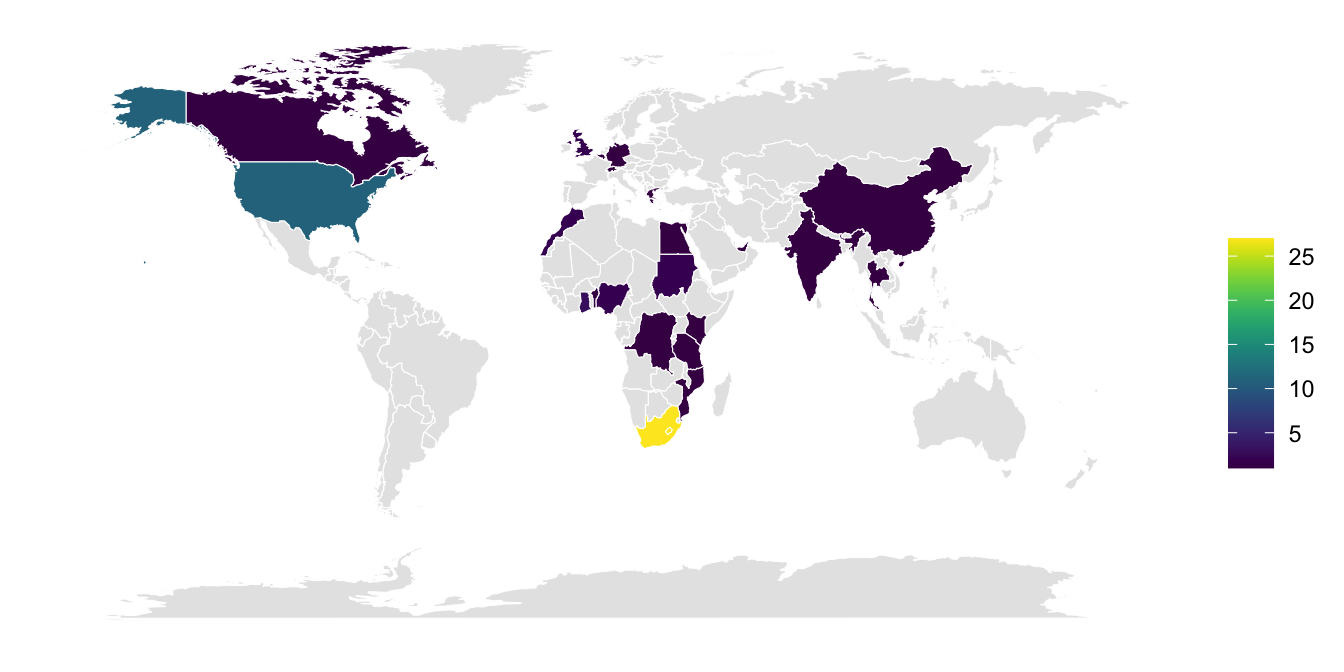
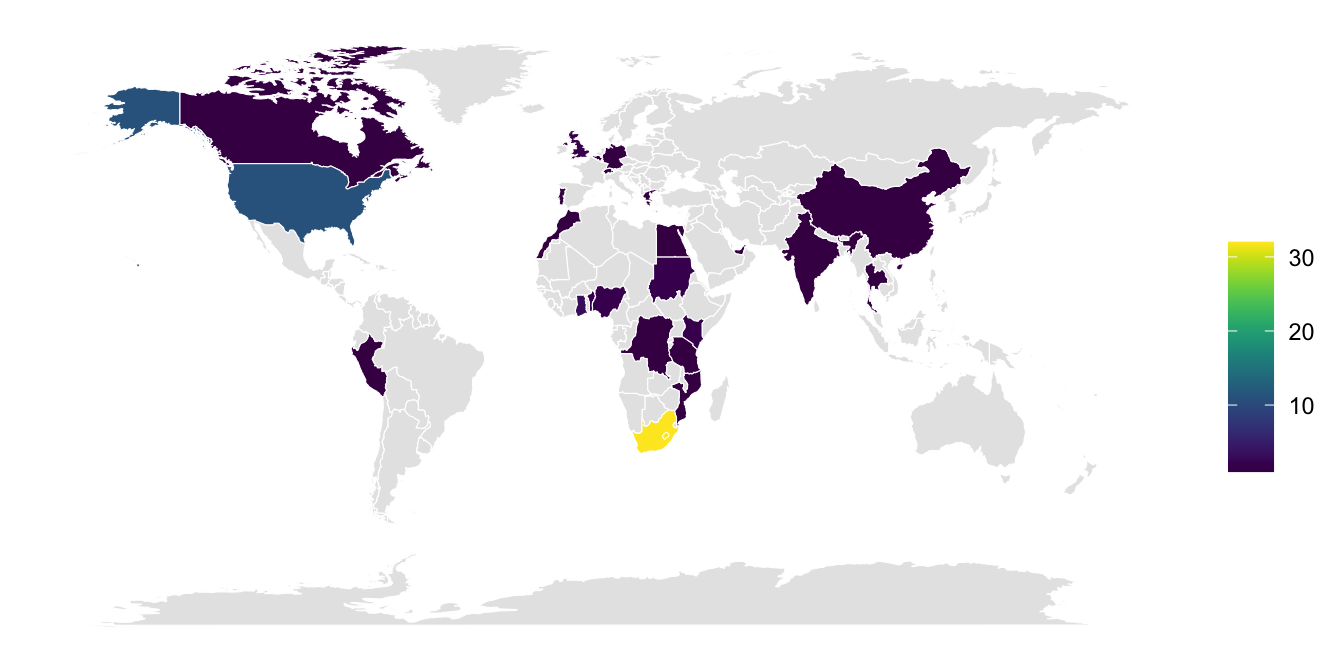
Updated membership map

diff --git a/_site/join.html b/_site/join.html
@@ -135,7 +135,7 @@ gtag('config', 'G-7PDQDP7TKJ', { 'anonymize_ip': true});
     <h2 id="toc-title">On this page</h2>
    
   <ul>
-  <li><a href="#a-quick-overview-of-current-membership-as-of-july-2025" id="toc-a-quick-overview-of-current-membership-as-of-july-2025" class="nav-link active" data-scroll-target="#a-quick-overview-of-current-membership-as-of-july-2025">A quick overview of current membership (as of July 2025)</a></li>
+  <li><a href="#a-quick-overview-of-membership-as-of-november-2025" id="toc-a-quick-overview-of-membership-as-of-november-2025" class="nav-link active" data-scroll-target="#a-quick-overview-of-membership-as-of-november-2025">A quick overview of membership (as of November 2025)</a></li>
   </ul>
 <div class="toc-actions"><div><i class="bi bi-github"></i></div><div class="action-links"><p><a href="https://github.com/ecoforecast-africa/Website/edit/main/join.qmd" class="toc-action">Edit this page</a></p><p><a href="https://github.com/ecoforecast-africa/Website/issues/new" class="toc-action">Report an issue</a></p></div></div></nav>
     </div>
@@ -161,8 +161,8 @@ gtag('config', 'G-7PDQDP7TKJ', { 'anonymize_ip': true});
 
 <p>Please sign up using this <a href="https://forms.gle/8TFEigaaWoJPGXPe8"><strong>Google form</strong></a> to receive updates on our activities and events. The form is only checked periodically, so please be patient if you do not receive a response immediately.</p>
 <p>If you’d like to to get in touch directly, email us at ecoforecast.africa at the gmail.com domain.</p>
-<section id="a-quick-overview-of-current-membership-as-of-july-2025" class="level2">
-<h2 class="anchored" data-anchor-id="a-quick-overview-of-current-membership-as-of-july-2025">A quick overview of current membership (as of July 2025)</h2>
+<section id="a-quick-overview-of-membership-as-of-november-2025" class="level2">
+<h2 class="anchored" data-anchor-id="a-quick-overview-of-membership-as-of-november-2025">A quick overview of membership (as of November 2025)</h2>
 <div class="cell" data-layout-align="center" data-fig.asp="0.5">
 <div class="cell-output-display">
 <div class="quarto-figure quarto-figure-center">
@@ -172,7 +172,7 @@ gtag('config', 'G-7PDQDP7TKJ', { 'anonymize_ip': true});
 </div>
 </div>
 </div>
-<p>Africa 44 (13 countries) | North America 12 | Europe 6 | Asia 4 | Many from or working in Africa</p>
+<p>Africa 50 (13 countries) | North America 12 | Europe 7 | Asia 4 | Many from or working in Africa</p>
 <div class="cell" data-layout-align="center">
 <div class="cell-output-display">
 <div class="quarto-figure quarto-figure-center">
